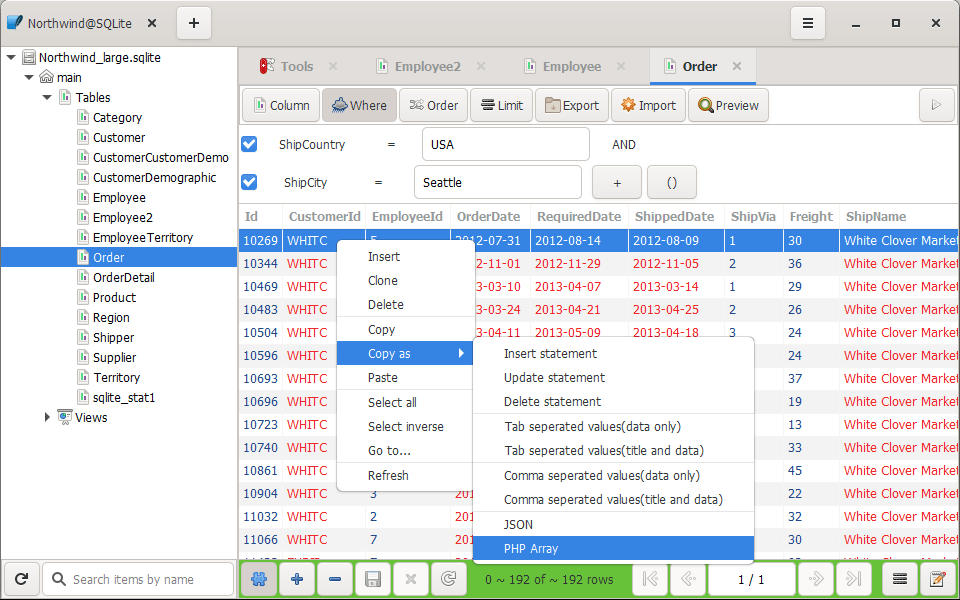
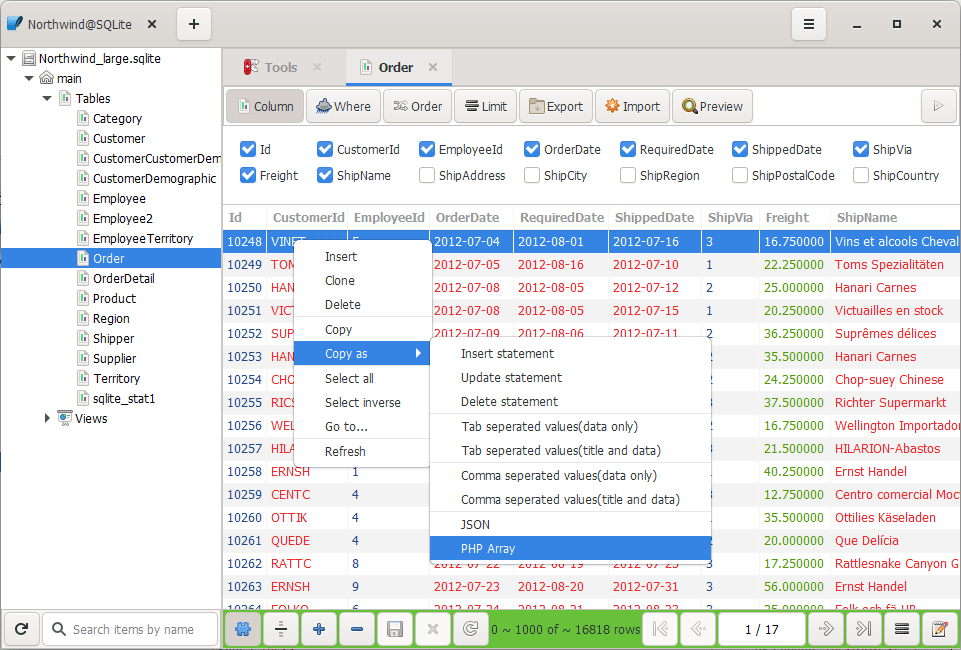
release version 0.21.1

diff --git a/.vuepress/config.js b/.vuepress/config.js
@@ -82,6 +82,7 @@ module.exports = {
                     ],
                     '/download/': [
                         '',
+                        'v0.21.1.200501',
                         'v0.20.1.200420',
                         'v0.19.1.200413',
                         'v0.18.1.200406',

diff --git a/download/v0.21.1.200501.md b/download/v0.21.1.200501.md
@@ -1,0 +1,35 @@
+---
+title: v0.21.1.200501
+lang: en-US
+---
+
+# Kangaroo v0.21.1.200501
+
+## New features & bug-fixes
+1. Refactor the entire datagrid to make great experience.
+2. Support 3 kind of mode: LIVE / CACHE / TRANSACTION
+3. Support copy and paste multi rows in data grid.
+4. Chnage mode automatically while paste multi rows.
+
+<div>
+    <script2 type="text/javascript" async="true" src="https://pagead2.googlesyndication.com/pagead/js/adsbygoogle.js" />
+    <ins class="adsbygoogle"
+        style="display:block; text-align:center;"
+        data-ad-layout="in-article"
+        data-ad-format="fluid"
+        data-ad-client="ca-pub-3975819313740938"
+        data-ad-slot="6760827895"></ins>
+    <script2 type="text/javascript">
+        (adsbygoogle = window.adsbygoogle || []).push({});
+    </script2>
+</div>
+
+
+## Installer & Portable packages
+
+| Packages        | Windows(32 bit) | Windows(64 bit) | Linux(64 bit)   | MacOS(64 bit)   |
+|-----------------|-----------------|-----------------|-----------------|-----------------|
+| Installer<br/>(Github.com) | | [Installer](https://github.com/dbkangaroo/kangaroo/releases/download/v0.21.1.200501/Kangaroo_0.21.1.200501_win64.exe) | | |
+| Portable<br/>(Github.com)  | | [Portable](https://github.com/dbkangaroo/kangaroo/releases/download/v0.21.1.200501/Kangaroo_0.21.1.200501_win64.7z) | [Arch](https://github.com/dbkangaroo/kangaroo/releases/download/v0.21.1.200501/Kangaroo_0.21.1.200501_arch.zip) | [MacOS](https://github.com/dbkangaroo/kangaroo/releases/download/v0.21.1.200501/Kangaroo_0.21.1.200501_macos.zip) |
+| Installer<br/>(Gitee.com) | | [Installer](https://gitee.com/dbkangaroo/kangaroo/attach_files/377250/download) | | |
+| Portable<br/>(Gitee.com)  | | [Portable](https://gitee.com/dbkangaroo/kangaroo/attach_files/377256/download) | [Arch](https://gitee.com/dbkangaroo/kangaroo/attach_files/377248/download) | [MacOS](https://gitee.com/dbkangaroo/kangaroo/attach_files/377249/download) |

diff --git a/document/connection.md b/document/connection.md
@@ -2,3 +2,37 @@
 title: Connection management
 lang: en-US
 ---
+
+## Connection limitations
+The connection have some limitations as follow:
+- connection with SSL not yet support.
+- connection with SSH with pass phrase not yet support
+
+## SQLite
+Make a SQLite connection is easy, just do as follow:
+* step 1: click __New connection__ icon and name it
+* step 2: click left icon to create an new database, then click __Test connection__ to test it
+* step 3: click right icon to load an exist database, then click __Test connection__ to test it
+* step 4: make sure you have done these steps, then click __Save__ icon to save it.
+* step 5: open your new connection to perform operations.
+
+## MySQL / MariaDB
+MySQL / PostgreSQL connnection is more complicate, because it support multi authentication methods, so you should prepare material before making connection, the best way is choose mysql native password plugin(mysql_native_password), just follow the guide:
+```sql
+1) Open terminal
+2) mysql -u root -p
+3) Enter your password
+4) ALTER USER root@localhost IDENTIFIED WITH mysql_native_password BY 'password';
+```
+After that, you could make a connection easily:
+![Make a MySQL connection](../images/connection-mysql.png)
+
+__Follow the label and tooltip__, fill the data as right place, then test connection. Every thing will be ok if the data is valid.
+
+![Make a MySQL connection with SSH](../images/connection-ssh.png)
+
+Your connection could through the private network over SSH(and over proxy), the built-in SSH client could help you done it.
+
+
+## PostgreSQL
+Just refer MySQL connection setting.

diff --git a/document/news.md b/document/news.md
@@ -5,6 +5,12 @@ lang: en-US
 
 # Kangaroo News Timeline
 
+## [Kangaroo v0.21.1.200501](/download/v0.21.1.200501)
+1. Refactor the entire datagrid to make great experience.
+2. Support 3 kind of mode: LIVE / CACHE / TRANSACTION
+3. Support copy and paste multi rows in data grid.
+4. Chnage mode automatically while paste multi rows.
+
 ## [Kangaroo v0.20.1.200420](/download/v0.20.1.200420)
 1. Implement copy function in the datagrid.
 2. refactor context menu of structure designer.
@@ -276,3 +282,23 @@ Load plugin failed while create new connection #12
 3. refactor content of Kangaroo repo
 4. create new site: dbkangaroo.github.io
 5. add windows installer script
+
+## Kangaroo v0.6.0.190601
+1. support edit and save in table
+2. support edit and save in form 
+3. support i18n and l10n
+4. support chinese language
+ 
+## Kangaroo v0.4.0.190501
+1. support data pagination
+2. implemtnt query builder and apply it
+3. export data to file(.csv)
+4. show system log in output view
+5. edit and execute sql
+6. support multiple results
+
+## Kangaroo v0.2.0.190401
+1. add connection setup ui
+2. add connection manager
+3. show database structure tree in data panel
+4. show data in tree view

diff --git a/README.md b/README.md
@@ -1,8 +1,8 @@
 ---
 home: true
 heroImage: /kangaroo.png
-actionText: Download v0.20.1
-actionLink: /download/v0.20.1.200420
+actionText: Download v0.21.1
+actionLink: /download/v0.21.1.200501
 footer: Private property | Copyright © 2018-present Kangaroo development team
 ---
 
@@ -59,7 +59,7 @@ Development version will be released weekly, Stable and LTS(Long-term Support) v
 
 | Platform    | Windows(32 bit)   | Windows(64 bit)   | Linux(64 bit)   | MacOS(64 bit)   |
 |-------------|-----------------|-------------------|-------------------|-----------------|
-| Stable(Planned) |  | [v0.21.1.200501](./download/v0.21.1.200501) | [v0.21.1.200501](./download/v0.21.1.200501) | [v0.21.1.200501](./download/v0.21.1.200501) |
+| Stable |  | [v0.21.1.200501](./download/v0.21.1.200501) | [v0.21.1.200501](./download/v0.21.1.200501) | [v0.21.1.200501](./download/v0.21.1.200501) |
 | Development | | [v0.20.1.200420](./download/v0.20.1.200420) | [v0.20.1.200420](./download/v0.20.1.200420) | [v0.20.1.200420](./download/v0.20.1.200420) |
 
 

diff --git a/download/README.md b/download/README.md
@@ -8,8 +8,8 @@ Stable and LTS(Long-term Support) version depend on test result and stabilizatio
 
 | Release date | Windows(32 bit) | Windows(64 bit)   | Linux(64 bit)   | MacOS(64 bit)   |
 |--------------|-----------------|-------------------|-----------------|-----------------|
-| 2020-05-01 | | [v0.21.1.200501](./v0.21.1.200501) | [v0.21.1.200501](./v0.21.1.200501) | [v0.21.1.200501](./v0.21.1.200501) |
 | TBD          |                 |                   |                 |                 |
+| 2020-05-01 | | [v0.21.1.200501](./v0.21.1.200501) | [v0.21.1.200501](./v0.21.1.200501) | [v0.21.1.200501](./v0.21.1.200501) |
 
 
 ## Development version

diff --git a/document/datagrid.md b/document/datagrid.md
@@ -2,3 +2,19 @@
 title: Data grid in content view
 lang: en-US
 ---
+
+## Select columns
+
+## Add filter
+
+## Add sort column
+
+## Add dataset limit
+
+## Edit and save data
+
+## Change edit mode
+
+## Switch page
+
+## Copy data as you want
